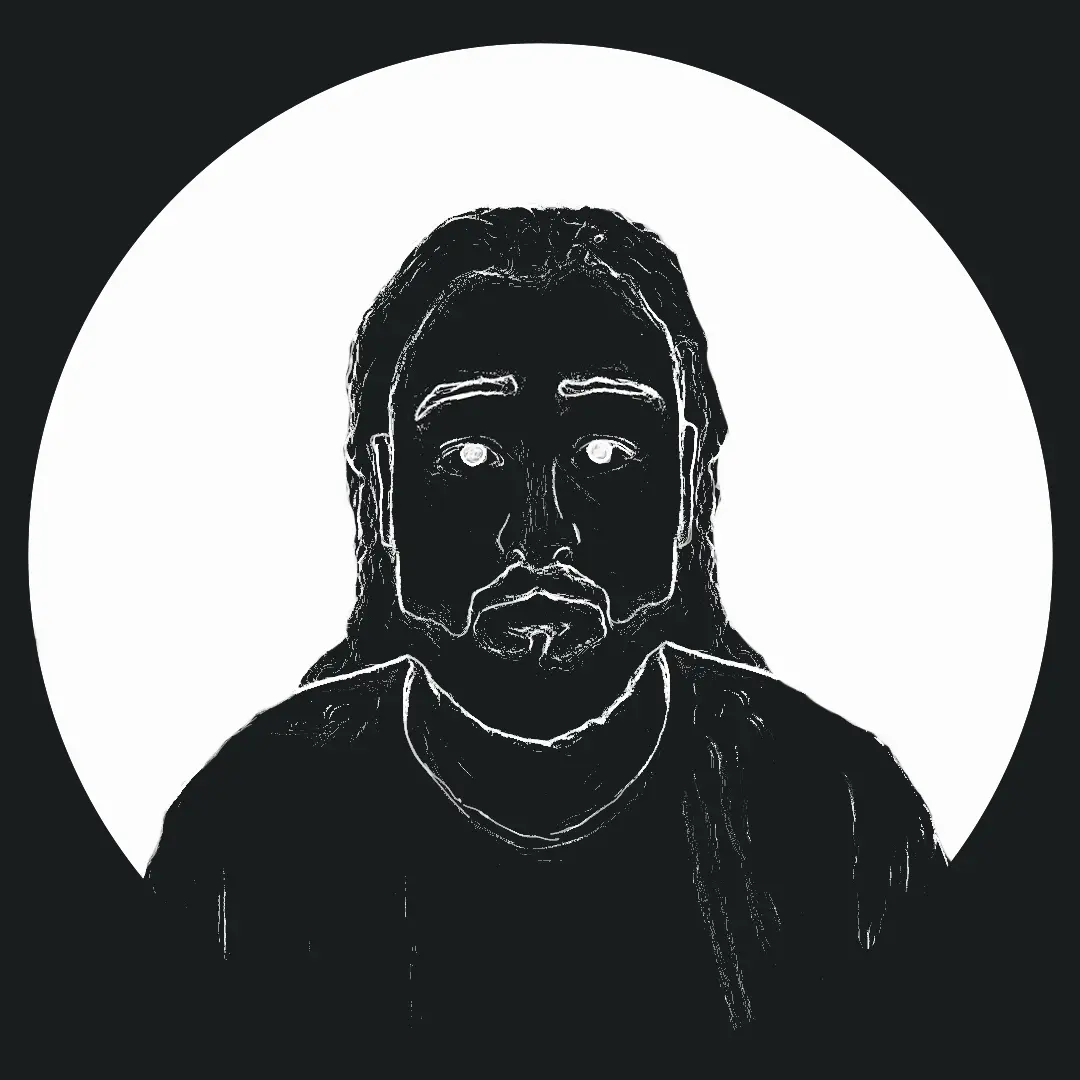
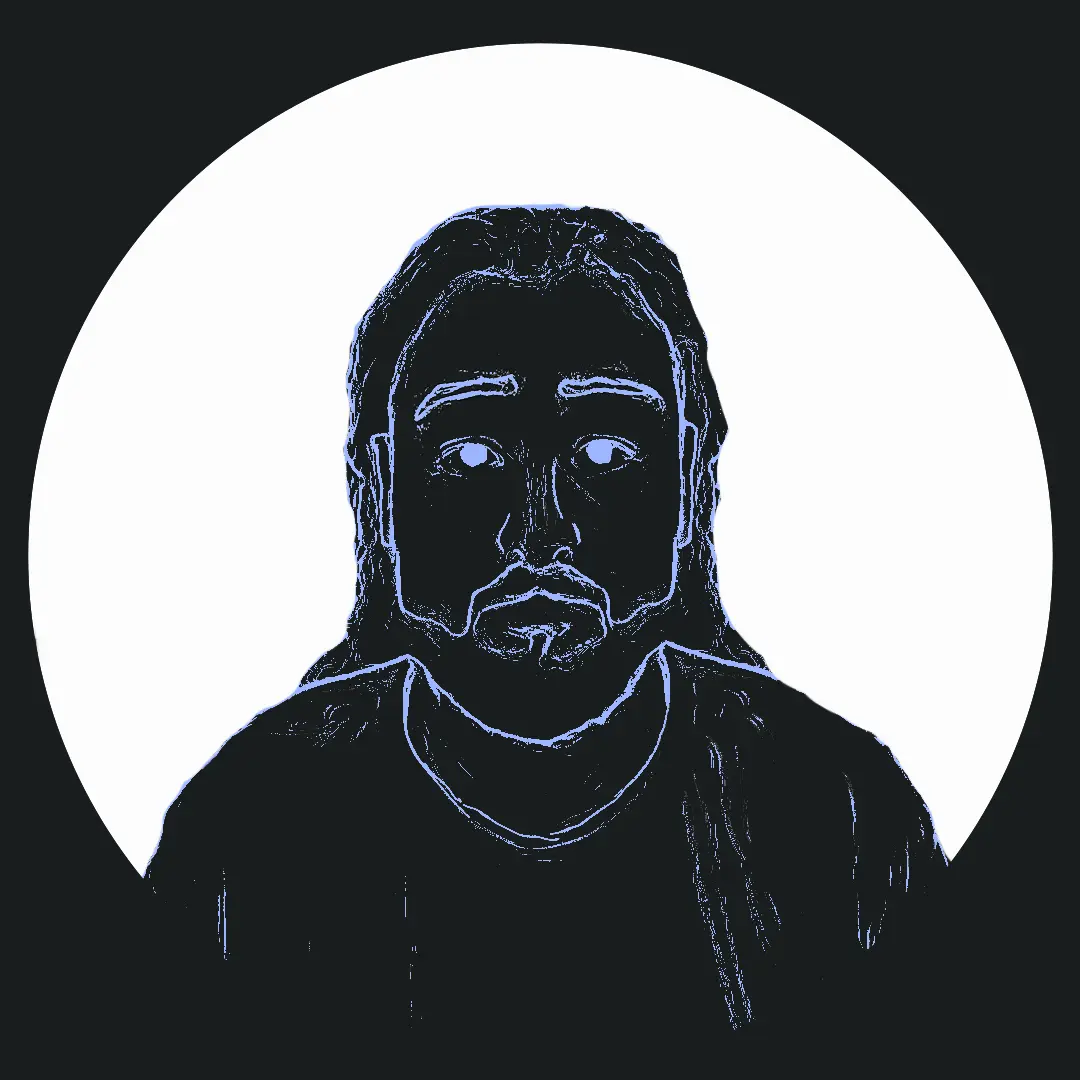
Set the name in blue over the foot of the portrait
It sat under the picture in muted grey; it now reads in the site's blue from
inside the circle, low enough to land on the dark of the shoulders. That backing
is what the colour needs — over the white of the portrait it would wash out.

Also picks up the replaced portrait artwork.

diff --git a/src/components/landing/styles/selfie.module.scss b/src/components/landing/styles/selfie.module.scss
@@ -388,13 +388,17 @@ $portrait-circle: circle(47.41% at 50% 51.39%);
 }
 
 /**
- * Sits just under the drawn circle, whose bottom edge is at 51.39% + 47.41% of
- * the stage. Scales with the artwork like the greeting and the job title do,
- * and fades in with the picture rather than waiting for the sequence.
+ * Sits on the picture rather than under it, low enough to land on the dark of
+ * the shoulders — the circle's own bottom edge is at 51.39% + 47.41% of the
+ * stage, so this stays well inside it. Light blue needs that dark backing; over
+ * the white of the portrait it would wash out.
+ *
+ * Scales with the artwork like the greeting and the job title do, and fades in
+ * with the picture rather than waiting for the sequence.
  */
 .name {
-  @apply absolute left-0 right-0 text-center text-dim uppercase pointer-events-none;
-  top: 100%;
+  @apply absolute left-0 right-0 text-center text-sea uppercase pointer-events-none;
+  top: 86%;
   font-size: 1.25rem;
   letter-spacing: 0.22em;
   animation: portraitIn var(--intro-portrait) ease-out;
